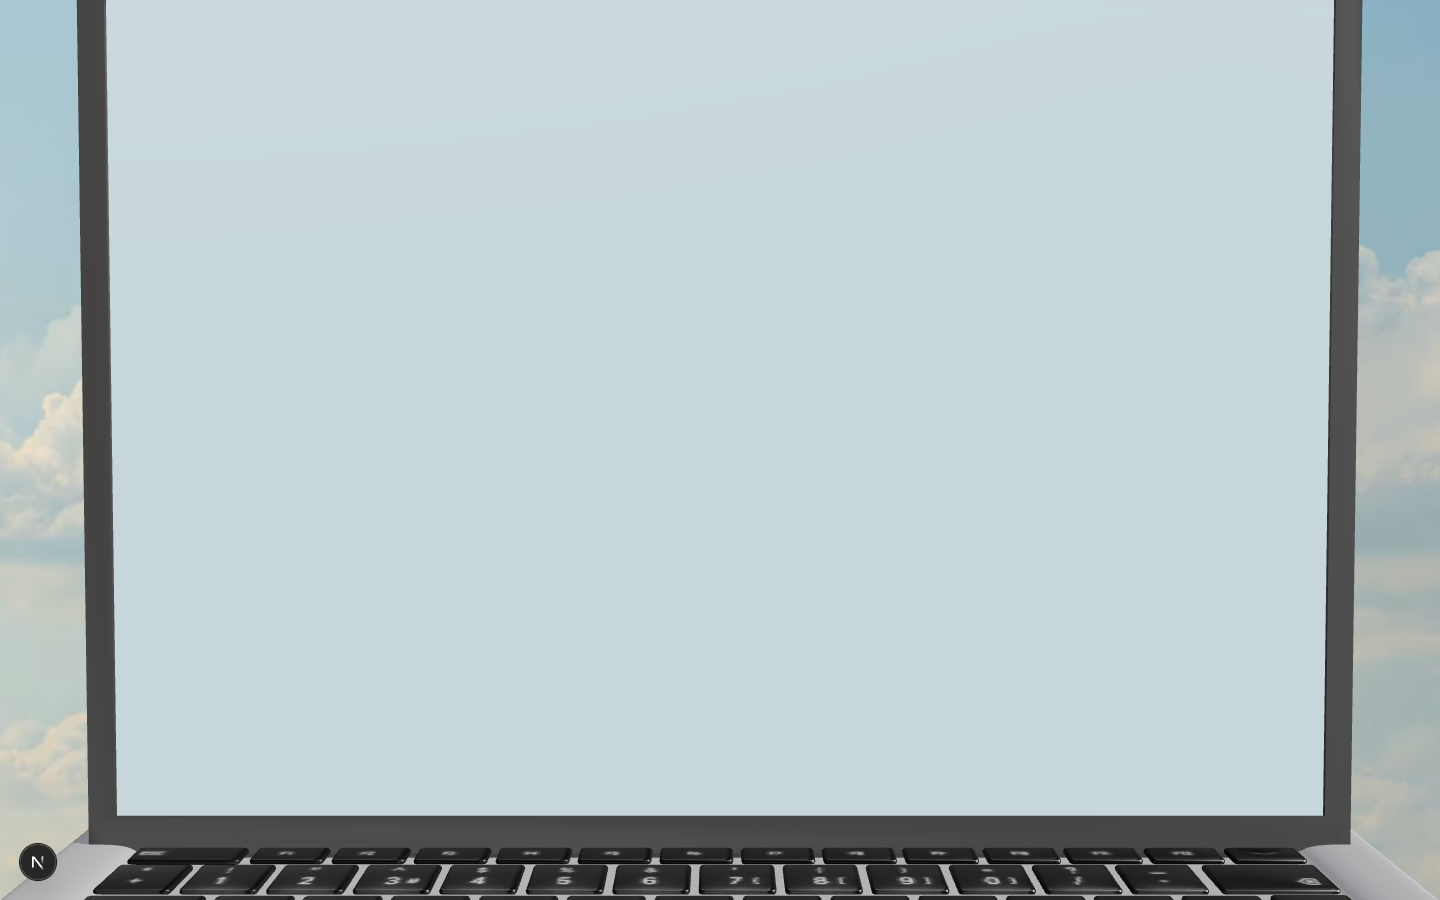
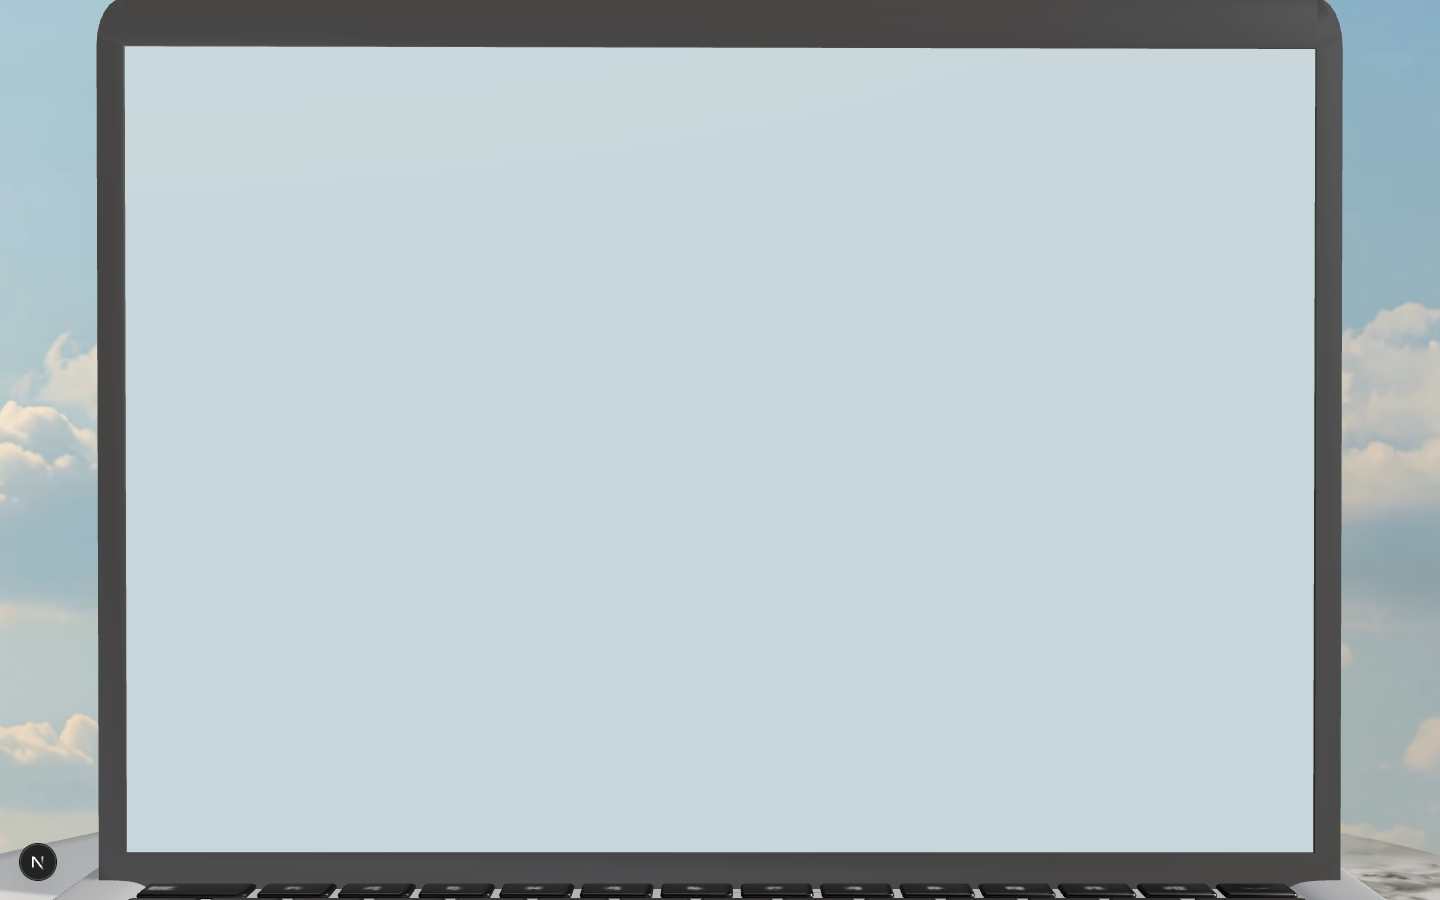
Screen beat: slide and dolly as one longer motion from 87 to 96.5 percent, then a hold with the video playing in the laptop screen; fullscreen hand off removed
Claude-Session: https://claude.ai/code/session_01NAdPXLUXCGhh82qBsMYyAh

Changed region(s): [[0.0, 0.0, 1.0, 1.0], [0.9688, 0.8089, 1.0, 0.84]]

diff --git a/src/hero/Rebuild.tsx b/src/hero/Rebuild.tsx
@@ -102,8 +102,8 @@ export function Rebuild({ video }: { video: HTMLVideoElement | null }) {
     g.rotation.y = turn * Math.PI * 2;
 
     // the lid lifts from 0.80 to 0.89 to its open angle, then squares to vertical as the rig comes down
-    const open = ease.inOut(remap(p, 0.8, 0.89));
-    const down = ease.inOut(remap(p, BEATS.screen[0], 0.985));
+    const open = ease.inOut(remap(p, 0.79, 0.865));
+    const down = ease.inOut(remap(p, BEATS.screen[0], BEATS.screen[1]));
     const lidDeg = THREE.MathUtils.lerp(LID_OPEN_DEG * open, 90, down);
     if (lid.current) lid.current.rotation.x = THREE.MathUtils.degToRad(lidDeg);
 
@@ -117,10 +117,10 @@ export function Rebuild({ video }: { video: HTMLVideoElement | null }) {
       tmpBox.getCenter(tmpC);
       g.position.y = -down * (tmpC.y - stageTarget.look.y);
     }
-    const light = ease.smooth(remap(p, 0.84, 0.88));
+    const light = ease.smooth(remap(p, 0.83, 0.86));
     screenState.light = light;
     if (screenMat.current) screenMat.current.emissiveIntensity = light * 1.4;
-    if (video && p > 0.86 && video.paused) video.play().catch(() => {});
+    if (video && p > 0.84 && video.paused) video.play().catch(() => {});
 
     // publish the screen's world centre and normal for the camera
     const sc = screen.current;

diff --git a/src/hero/Hero.tsx b/src/hero/Hero.tsx
@@ -11,8 +11,6 @@ import { setProgress } from "./progress";
 const Scene = dynamic(() => import("./Scene").then((m) => m.Scene), { ssr: false });
 import { SkyVideo } from "./SkyVideo";
 import { ScreenVideo } from "./ScreenVideo";
-import { onProgress } from "./progress";
-import { ease, remap } from "./beats";
 
 type Mode = "pending" | "scroll" | "reduced" | "static";
 
@@ -39,15 +37,7 @@ export function Hero() {
   const [video, setVideo] = useState<HTMLVideoElement | null>(null);
   const videoRef = (el: HTMLVideoElement | null) => setVideo(el);
 
-  // fullscreen hand off over the last five percent
-  useEffect(() => {
-    if (!video) return;
-    return onProgress((p) => {
-      const o = ease.smooth(remap(p, 0.95, 0.99));
-      video.style.opacity = o.toFixed(3);
-      video.style.visibility = o < 0.01 ? "hidden" : "visible";
-    });
-  }, [video]);
+  // the video only feeds the laptop screen texture; the element itself stays hidden
 
   useEffect(() => {
     setMode(detectMode());

diff --git a/src/hero/beats.ts b/src/hero/beats.ts
@@ -8,8 +8,8 @@ export const BEATS = {
   hold: [0.3, 0.45],
   vaporise: [0.45, 0.64],
   rebuild: [0.62, 0.78],
-  turn: [0.78, 0.9],
-  screen: [0.9, 1.0],
+  turn: [0.78, 0.87],
+  screen: [0.87, 0.965],
 } as const;
 
 export const SCROLL_LENGTH_VH = 700;
@@ -42,7 +42,7 @@ export const COPY_WINDOWS = {
   headline1: (p: number) => 1 - ease.smooth(remap(p, 0.1, 0.16)),
   block1: (p: number) => window(p, 0.17, 0.24, 0.4, 0.45),
   block2: (p: number) => window(p, 0.49, 0.55, 0.6, 0.64),
-  block3: (p: number) => window(p, 0.66, 0.72, 0.88, 0.91),
-  cta: (p: number) => ease.smooth(remap(p, 0.955, 0.985)),
+  block3: (p: number) => window(p, 0.66, 0.72, 0.85, 0.88),
+  cta: (p: number) => ease.smooth(remap(p, 0.965, 0.985)),
   scrollHint: (p: number) => 1 - ease.smooth(remap(p, 0.02, 0.06)),
 };

diff --git a/src/hero/CameraRig.tsx b/src/hero/CameraRig.tsx
@@ -91,7 +91,7 @@ export function CameraRig({ frozen = false }: { frozen?: boolean }) {
     stageTarget.camPos.copy(tmpPos);
     stageTarget.look.copy(tmpLook);
     stageTarget.fov = fov;
-    const dolly = ease.inOut(remap(p, BEATS.screen[0], 0.985));  // one motion with the slide down
+    const dolly = ease.inOut(remap(p, BEATS.screen[0], BEATS.screen[1]));  // one motion with the slide down, then a hold
     if (dolly > 0 && screenState.ready) {
       const fovRad = THREE.MathUtils.degToRad(fov);
       const dist = (screenState.height / 2) / Math.tan(fovRad / 2) / 1.04;
